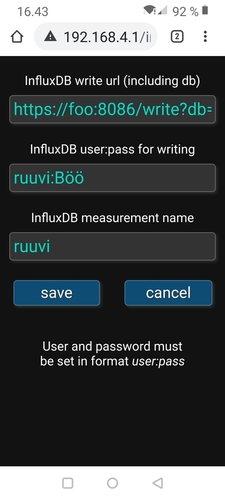
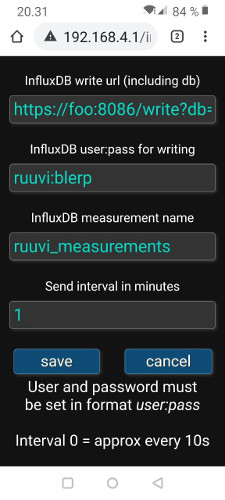
implemented interval setting

diff --git a/data/influx.html b/data/influx.html
@@ -15,13 +15,16 @@
 <input type="text" name="userpass" maxlength="63" pattern=".*:.*" value="###USERPASS###"></td></tr>
 <tr><td><br />InfluxDB measurement name<br />
 <input type="text" name="idbm" maxlength="31" value="###IDBM###"></td></tr>
+<tr><td><br />Send interval in minutes<br />
+<input type="text" name="interval" pattern="[0-9]{0,4}" value="###INTERVAL###"></td></tr>
 </table>
 <br />
 <table>
 <tr><td class="even"><input type="submit" value="save"></td>
 <td class="even"><a class="fakebutton" href="./">cancel</a></td></tr>
-<tr><td colspan=2><br /><br />
-User and password must<br />be set in format <i>user:pass</i>
+<tr><td colspan=2>
+User and password must<br />be set in format <i>user:pass</i><br /><br />
+Interval 0 = approx every 10s
 </td></tr>
 
 </table>

diff --git a/FORMATS.md b/FORMATS.md
@@ -10,6 +10,8 @@ row 2: username:password for the url. They must be separated by colon.
 
 row 3: measurement name (set to ruuvi_measurements for compatibility)
 
+row 4: post interval in minutes. 0 = all the time, practically approximately every 10s.
+
 All rows must end in newline.
 
 **Example influxdb.txt file:**
@@ -18,6 +20,7 @@ All rows must end in newline.
 https://influxdb.some.where:8086/write?db=ruuvi
 ruuvi:password123
 ruuvi_measurements
+0
 ```
 
 ## known_tags.txt
